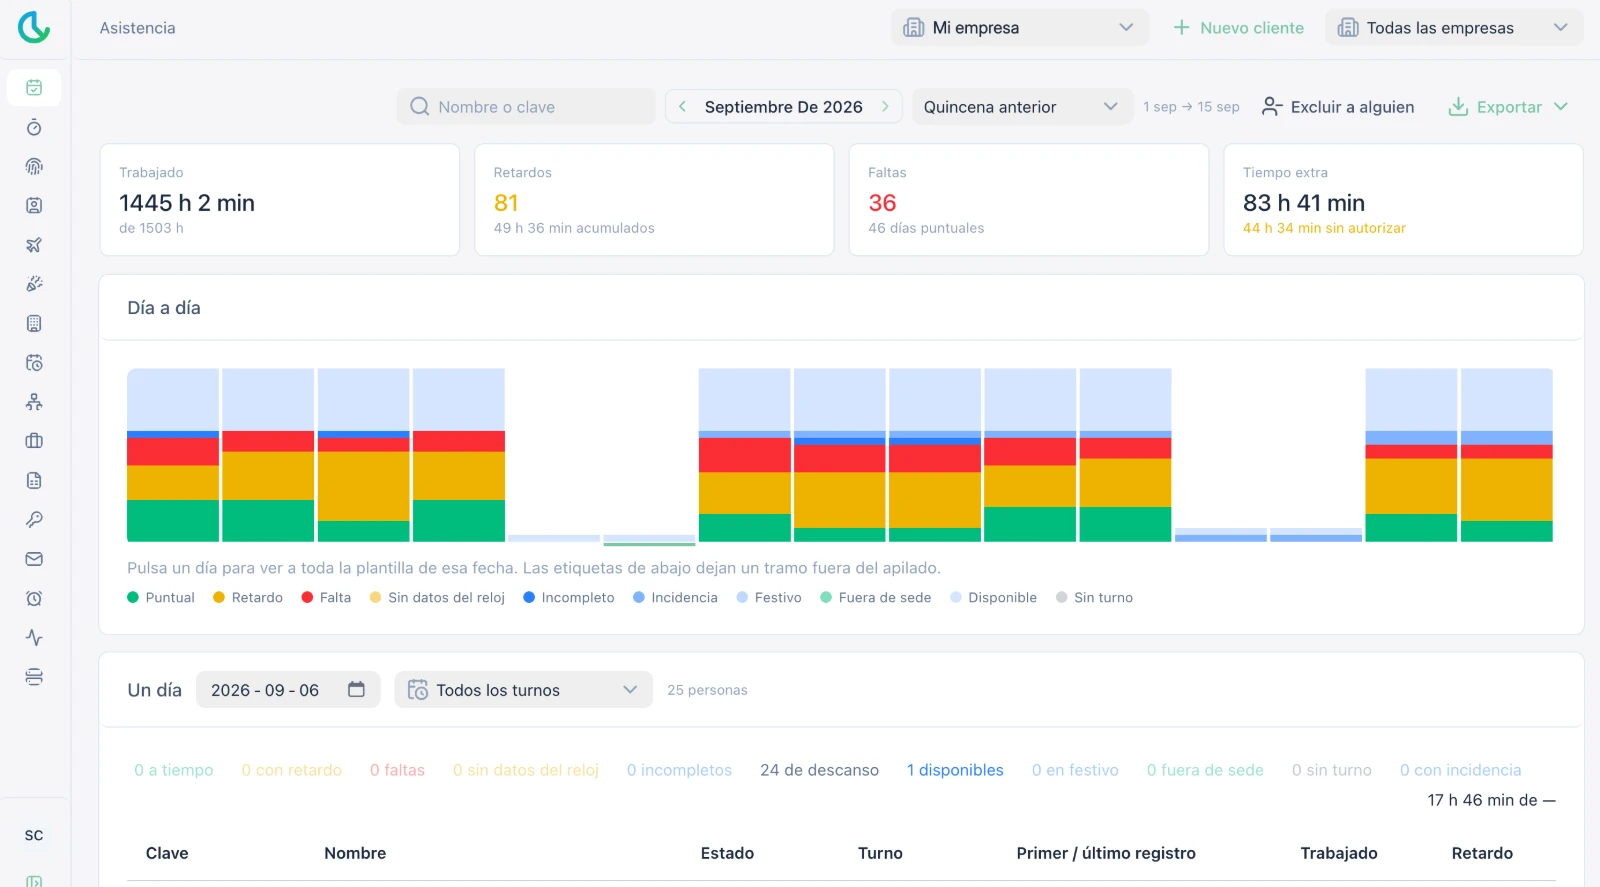
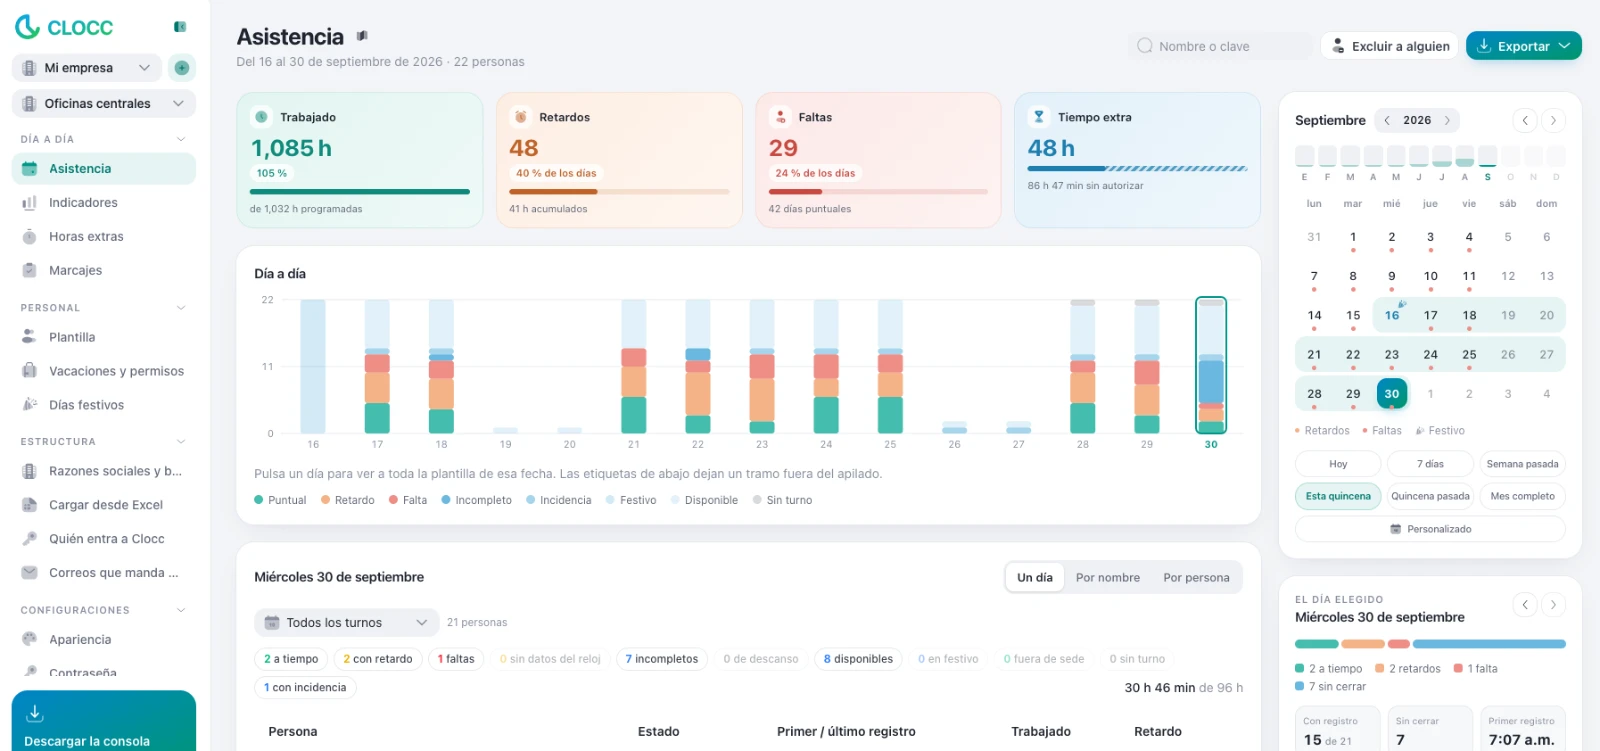
feat(clocc): capturas nuevas del panel de Clocc (claro y oscuro)
- Reemplaza panel-claro/panel-oscuro con las capturas actuales del panel.
  Se tapan el grupo y la razón social ("Mi empresa", "Oficinas centrales")
  y se recorta antes de la primera fila para no mostrar nombres de empleados.
- Ajusta width/height (1600×751) donde se usan.
- Ignora las capturas fuente (assets/img/Screenshot*).

diff --git a/components/landing/CloccBanner.vue b/components/landing/CloccBanner.vue
@@ -100,7 +100,7 @@ const { t } = useI18n({ useScope: "local" });
               src="/img/clocc/panel-claro.webp"
               :alt="t('alt')"
               width="1600"
-              height="887"
+              height="751"
               loading="lazy"
               decoding="async"
               class="block w-full dark:hidden"
@@ -109,7 +109,7 @@ const { t } = useI18n({ useScope: "local" });
               src="/img/clocc/panel-oscuro.webp"
               :alt="t('alt')"
               width="1600"
-              height="887"
+              height="751"
               loading="lazy"
               decoding="async"
               class="hidden w-full dark:block"

diff --git a/components/landing/CloccShowcase.vue b/components/landing/CloccShowcase.vue
@@ -133,7 +133,7 @@ onBeforeUnmount(() => {
             src="/img/clocc/panel-claro.webp"
             :alt="t('alt')"
             width="1600"
-            height="887"
+            height="751"
             decoding="async"
             class="block w-full dark:hidden"
           />
@@ -141,7 +141,7 @@ onBeforeUnmount(() => {
             src="/img/clocc/panel-oscuro.webp"
             :alt="t('alt')"
             width="1600"
-            height="887"
+            height="751"
             decoding="async"
             class="hidden w-full dark:block"
           />

diff --git a/components/landing/HeroShowcase.vue b/components/landing/HeroShowcase.vue
@@ -172,14 +172,14 @@ const depth = (d: number) => ({ "--d": d }) as Record<string, number>;
               src="/img/clocc/panel-claro.webp"
               alt=""
               width="1600"
-              height="887"
+              height="751"
               class="block w-full dark:hidden"
             />
             <img
               src="/img/clocc/panel-oscuro.webp"
               alt=""
               width="1600"
-              height="887"
+              height="751"
               class="hidden w-full dark:block"
             />
           </figure>
